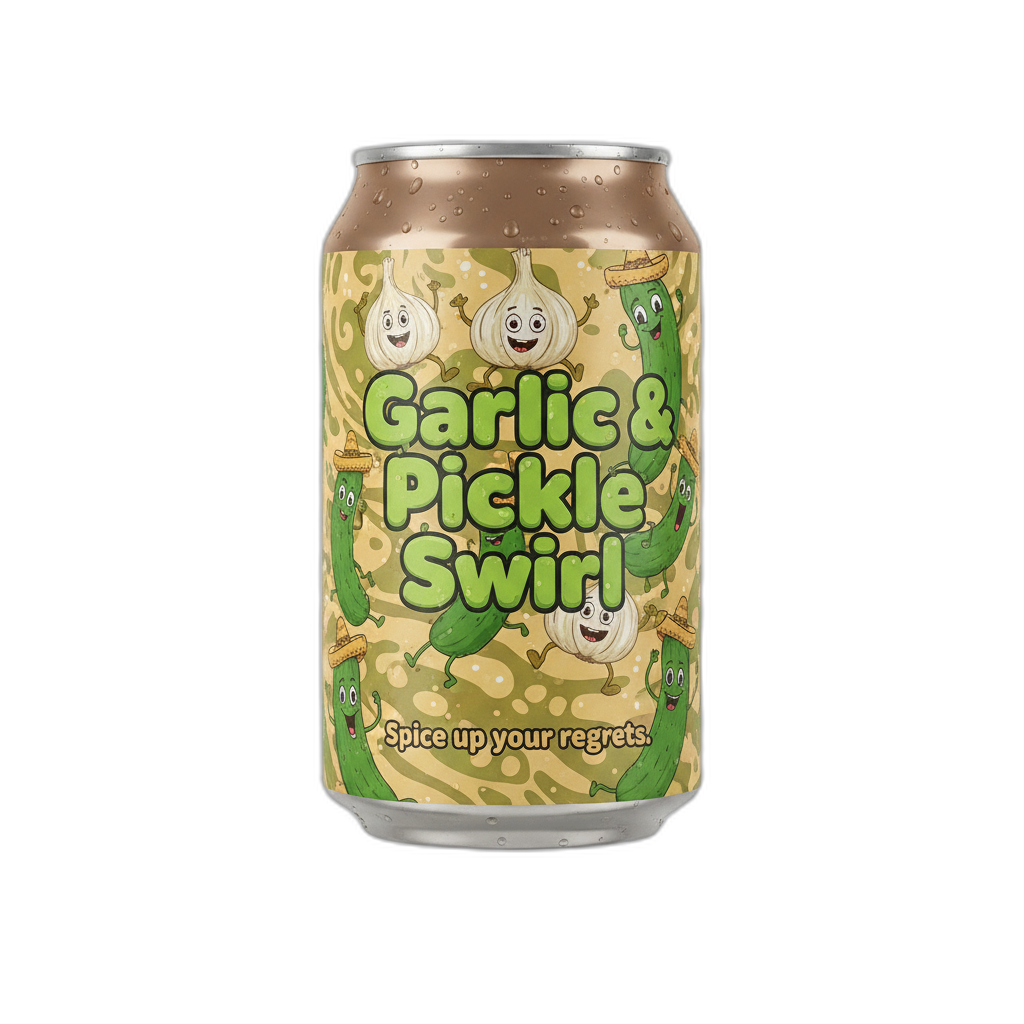
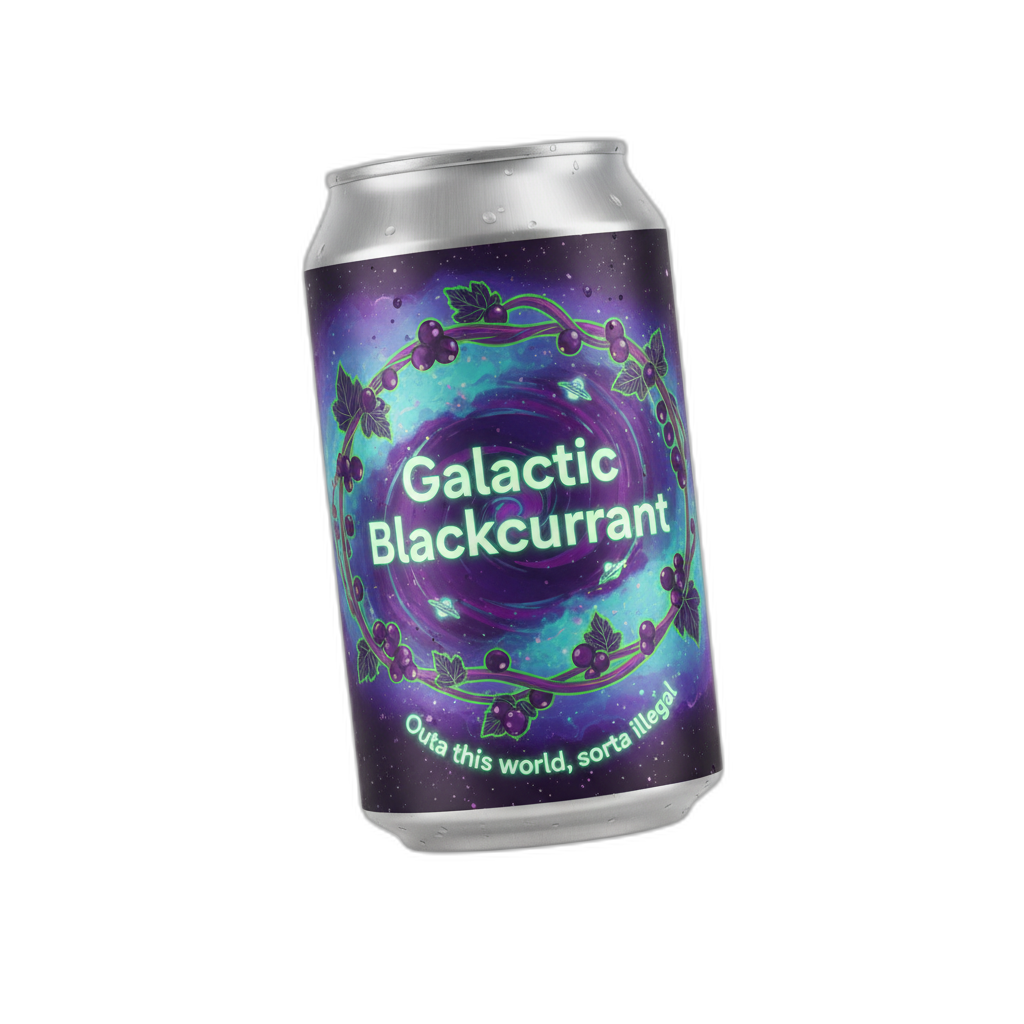
who knows

Changed region(s): [[0.2812, 0.125, 0.7188, 0.8438]]

diff --git a/video/src/Root.tsx b/video/src/Root.tsx
@@ -2,27 +2,26 @@ import { Composition } from "remotion";
 import { ChasVideo } from "./ChasVideo";
 
 const defaultProps = {
-  flavor: "Garlic & Pickle Swirl",
-  tagline: "Spice up your regrets.",
+  flavor: "Galactic Blackcurrant",
+  tagline: "Outa this world, sorta illegal",
   fakeIngredients: [
     "carbonated water",
     "natural flavors",
     "citric acid",
-    "essence of vampire repellent*",
-    "brine dreams*",
+    "a splash of alien tears*",
   ],
   palette: {
-    primary: "#8F7768",
-    accent: "#C0D72E",
+    primary: "#372948",
+    accent: "#96ceb4",
   },
-  disclaimer: "May cause excessive garlic breath. You asked for this.",
+  disclaimer: "Might cause feelings of wanderlust and existential curiosity.",
   testimonial: {
-    quote: "If chaos had a taste, this would be your new religion. I kissed eight people and they all cringed.",
-    author: "Ruby G., Professional Party Ruiner",
+    quote: "I drank this and now 12 astrology blogs follow me\u2014you do the math.",
+    author: "Astrid Nova, Interdimensional Switchboard Operator",
   },
   videoMood: {
-    energy: "unhinged" as const,
-    bgTone: "#2a261a",
+    energy: "ethereal" as const,
+    bgTone: "#2a3040",
   },
   canImageSrc: "assets/label.png",
 };

diff --git a/posts/2026-04-14-galactic-blackcurrant/post.md b/posts/2026-04-14-galactic-blackcurrant/post.md
@@ -1,0 +1,16 @@
+# Galactic Blackcurrant
+
+**Caption:** ayyo chas, u drinkin this?
+
+**Tagline:** Outa this world, sorta illegal
+**Mood:** ethereal
+**Disclaimer:** Might cause feelings of wanderlust and existential curiosity.
+
+## Song Picks
+
+1. Daft Punk - Get Lucky
+2. Grimes - Oblivion
+3. David Bowie - Space Oddity
+
+> "I drank this and now 12 astrology blogs follow me—you do the math."
+> — Astrid Nova, Interdimensional Switchboard Operator
